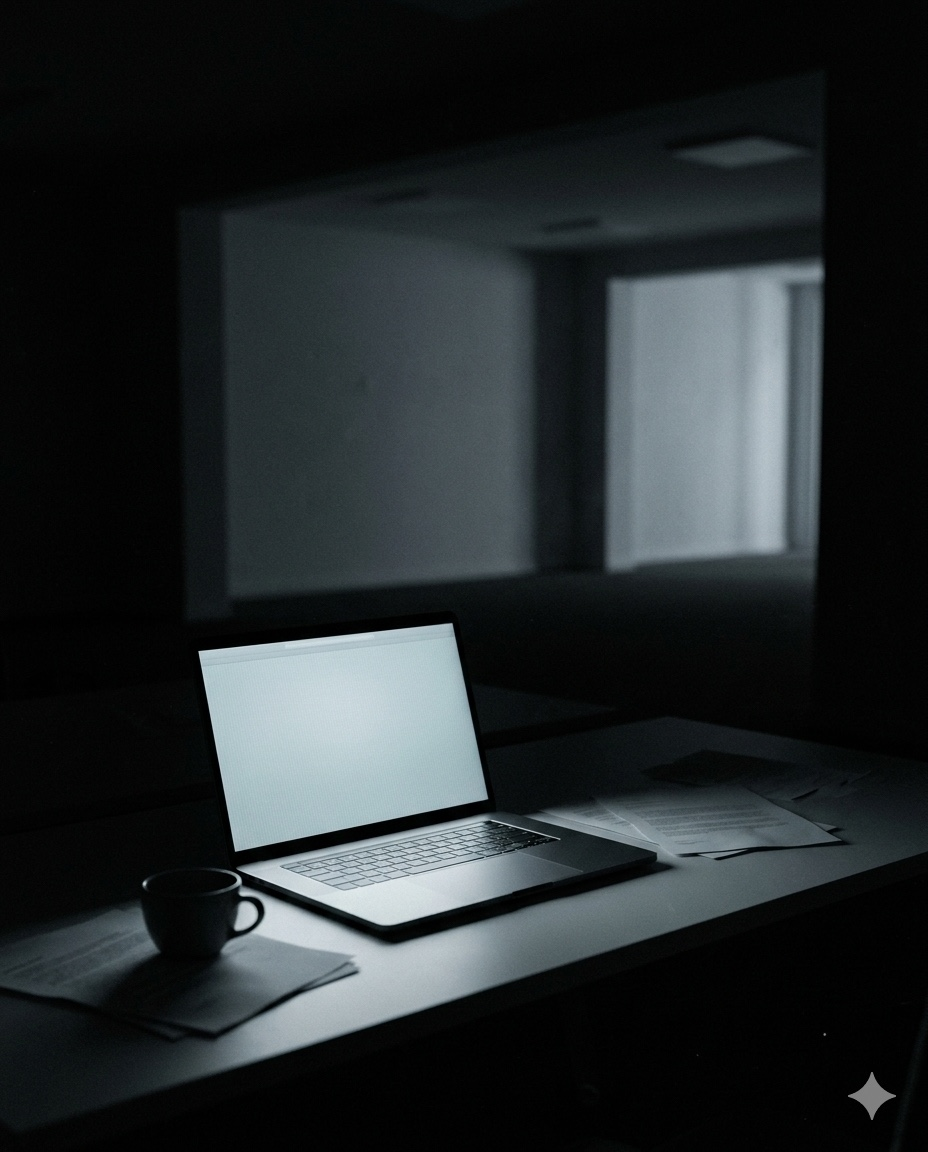
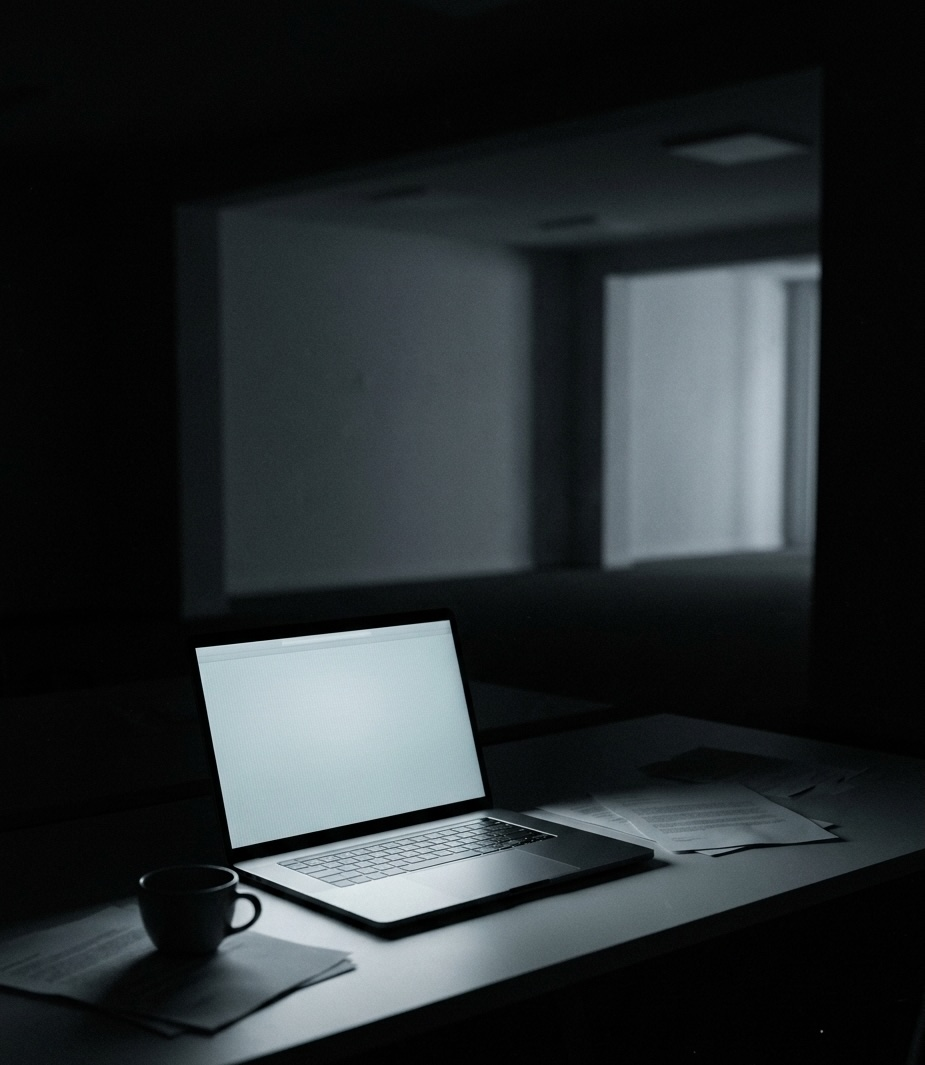
fix: replace dream image and add margins to full-bleed images
- Replace 07-dream-cull.jpg with dark PC image
- Full-bleed images now have consistent margins instead of edge-to-edge

diff --git a/src/components/ArticleReader.jsx b/src/components/ArticleReader.jsx
@@ -67,7 +67,7 @@ const ArticleImage = ({ image, mode }) => {
   switch (mode || image.mode) {
     case 'full-bleed':
       return (
-        <figure className="my-12 relative left-1/2 right-1/2 -ml-[50vw] -mr-[50vw] w-screen">
+        <figure className="my-12 -mx-6 md:-mx-8 lg:-mx-16">
           <div className="relative bg-black">
             <img
               src={image.src}
@@ -76,7 +76,7 @@ const ArticleImage = ({ image, mode }) => {
             />
           </div>
           {image.caption && (
-            <figcaption className="mt-3 px-6 md:px-16 font-mono text-[11px] uppercase tracking-[0.08em] text-[#5A5A55]">
+            <figcaption className="mt-3 px-6 md:px-8 lg:px-16 font-mono text-[11px] uppercase tracking-[0.08em] text-[#5A5A55]">
               {image.caption}
             </figcaption>
           )}
@@ -161,7 +161,7 @@ const SectionBreak = () => {
 // Closer image with fade
 const CloserImage = ({ image }) => {
   return (
-    <figure className="relative my-16 left-1/2 right-1/2 -ml-[50vw] -mr-[50vw] w-screen">
+    <figure className="relative my-16 -mx-6 md:-mx-8 lg:-mx-16">
       <div className="relative">
         <img
           src={image.src}
@@ -172,7 +172,7 @@ const CloserImage = ({ image }) => {
         <div className="absolute top-0 left-0 right-0 h-32 bg-gradient-to-b from-[#FAFAF7] to-transparent" />
       </div>
       {image.caption && (
-        <figcaption className="absolute bottom-4 left-6 md:left-16 font-mono text-[11px] uppercase tracking-[0.08em] text-white/80">
+        <figcaption className="absolute bottom-4 left-6 md:left-8 lg:left-16 font-mono text-[11px] uppercase tracking-[0.08em] text-white/80">
           {image.caption}
         </figcaption>
       )}
